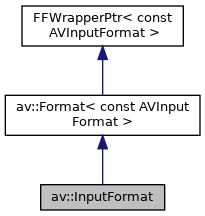
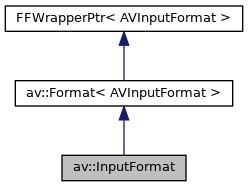
Update gh-pages to output generated at 1705836

Changed region(s): [[0.0, 0.0, 0.9951, 0.9893]]

diff --git a/classav_1_1InputFormat.html b/classav_1_1InputFormat.html
@@ -81,9 +81,9 @@ Inheritance diagram for av::InputFormat:</div>
 <div class="dyncontent">
 <div class="center"><img src="classav_1_1InputFormat__inherit__graph.png" border="0" usemap="#av_1_1InputFormat_inherit__map" alt="Inheritance graph"/></div>
 <map name="av_1_1InputFormat_inherit__map" id="av_1_1InputFormat_inherit__map">
-<area shape="rect" title=" " alt="" coords="41,184,165,211"/>
-<area shape="rect" href="structav_1_1Format.html" title=" " alt="" coords="5,95,200,136"/>
-<area shape="rect" href="structFFWrapperPtr.html" title=" " alt="" coords="22,5,183,47"/>
+<area shape="rect" title=" " alt="" coords="62,155,186,181"/>
+<area shape="rect" href="structav_1_1Format.html" title=" " alt="" coords="15,80,233,107"/>
+<area shape="rect" href="structFFWrapperPtr.html" title=" " alt="" coords="5,5,243,32"/>
 </map>
 <center><span class="legend">[<a href="graph_legend.html">legend</a>]</span></center></div>
 <div class="dynheader">
@@ -91,9 +91,9 @@ Collaboration diagram for av::InputFormat:</div>
 <div class="dyncontent">
 <div class="center"><img src="classav_1_1InputFormat__coll__graph.png" border="0" usemap="#av_1_1InputFormat_coll__map" alt="Collaboration graph"/></div>
 <map name="av_1_1InputFormat_coll__map" id="av_1_1InputFormat_coll__map">
-<area shape="rect" title=" " alt="" coords="41,184,165,211"/>
-<area shape="rect" href="structav_1_1Format.html" title=" " alt="" coords="5,95,200,136"/>
-<area shape="rect" href="structFFWrapperPtr.html" title=" " alt="" coords="22,5,183,47"/>
+<area shape="rect" title=" " alt="" coords="62,155,186,181"/>
+<area shape="rect" href="structav_1_1Format.html" title=" " alt="" coords="15,80,233,107"/>
+<area shape="rect" href="structFFWrapperPtr.html" title=" " alt="" coords="5,5,243,32"/>
 </map>
 <center><span class="legend">[<a href="graph_legend.html">legend</a>]</span></center></div>
 <table class="memberdecls">
@@ -105,7 +105,7 @@ Public Member Functions</h2></td></tr>
 <tr class="separator:a51cf89685ac9330d3e641eb1d4f5cd76"><td class="memSeparator" colspan="2">&#160;</td></tr>
 <tr class="memitem:ad57f6fc9b2ad2ca9c507ff009d2ff3d1"><td class="memItemLeft" align="right" valign="top">bool&#160;</td><td class="memItemRight" valign="bottom"><a class="el" href="classav_1_1InputFormat.html#ad57f6fc9b2ad2ca9c507ff009d2ff3d1">setFormat</a> (const std::string &amp;<a class="el" href="structav_1_1Format.html#a553d2d6b2d7dc22dee46a6fb826aac7c">name</a>) noexcept</td></tr>
 <tr class="separator:ad57f6fc9b2ad2ca9c507ff009d2ff3d1"><td class="memSeparator" colspan="2">&#160;</td></tr>
-<tr class="inherit_header pub_methods_structav_1_1Format"><td colspan="2" onclick="javascript:toggleInherit('pub_methods_structav_1_1Format')"><img src="closed.png" alt="-"/>&#160;Public Member Functions inherited from <a class="el" href="structav_1_1Format.html">av::Format&lt; const AVInputFormat &gt;</a></td></tr>
+<tr class="inherit_header pub_methods_structav_1_1Format"><td colspan="2" onclick="javascript:toggleInherit('pub_methods_structav_1_1Format')"><img src="closed.png" alt="-"/>&#160;Public Member Functions inherited from <a class="el" href="structav_1_1Format.html">av::Format&lt; AVInputFormat &gt;</a></td></tr>
 <tr class="memitem:a553d2d6b2d7dc22dee46a6fb826aac7c inherit pub_methods_structav_1_1Format"><td class="memItemLeft" align="right" valign="top">const char *&#160;</td><td class="memItemRight" valign="bottom"><a class="el" href="structav_1_1Format.html#a553d2d6b2d7dc22dee46a6fb826aac7c">name</a> () const noexcept</td></tr>
 <tr class="separator:a553d2d6b2d7dc22dee46a6fb826aac7c inherit pub_methods_structav_1_1Format"><td class="memSeparator" colspan="2">&#160;</td></tr>
 <tr class="memitem:a3e13d856e9b39f0b6b9bde2a3a47545b inherit pub_methods_structav_1_1Format"><td class="memItemLeft" align="right" valign="top">const char *&#160;</td><td class="memItemRight" valign="bottom"><a class="el" href="structav_1_1Format.html#a3e13d856e9b39f0b6b9bde2a3a47545b">longName</a> () const noexcept</td></tr>
@@ -114,20 +114,20 @@ Public Member Functions</h2></td></tr>
 <tr class="separator:ae1701d1a6ac64cbf03ec6755f49041f3 inherit pub_methods_structav_1_1Format"><td class="memSeparator" colspan="2">&#160;</td></tr>
 <tr class="memitem:a76a75832000e3f4278b0c6339dbf1eb3 inherit pub_methods_structav_1_1Format"><td class="memItemLeft" align="right" valign="top">bool&#160;</td><td class="memItemRight" valign="bottom"><a class="el" href="structav_1_1Format.html#a76a75832000e3f4278b0c6339dbf1eb3">isFlags</a> (int32_t <a class="el" href="structav_1_1Format.html#ae1701d1a6ac64cbf03ec6755f49041f3">flags</a>) const noexcept</td></tr>
 <tr class="separator:a76a75832000e3f4278b0c6339dbf1eb3 inherit pub_methods_structav_1_1Format"><td class="memSeparator" colspan="2">&#160;</td></tr>
-<tr class="memitem:a48a7626d81cc432338a0e397195f634c inherit pub_methods_structav_1_1Format"><td class="memItemLeft" align="right" valign="top">void&#160;</td><td class="memItemRight" valign="bottom"><a class="el" href="structav_1_1Format.html#a48a7626d81cc432338a0e397195f634c">setFormat</a> (const const AVInputFormat *format) noexcept</td></tr>
+<tr class="memitem:a48a7626d81cc432338a0e397195f634c inherit pub_methods_structav_1_1Format"><td class="memItemLeft" align="right" valign="top">void&#160;</td><td class="memItemRight" valign="bottom"><a class="el" href="structav_1_1Format.html#a48a7626d81cc432338a0e397195f634c">setFormat</a> (const AVInputFormat *format) noexcept</td></tr>
 <tr class="separator:a48a7626d81cc432338a0e397195f634c inherit pub_methods_structav_1_1Format"><td class="memSeparator" colspan="2">&#160;</td></tr>
 <tr class="memitem:ad7d5de416e36b566bb844c74f7b5e2dc inherit pub_methods_structav_1_1Format"><td class="memItemLeft" align="right" valign="top">bool&#160;</td><td class="memItemRight" valign="bottom"><a class="el" href="structav_1_1Format.html#ad7d5de416e36b566bb844c74f7b5e2dc">codecSupported</a> (const class <a class="el" href="classav_1_1Codec.html">Codec</a> &amp;codec) const noexcept</td></tr>
 <tr class="separator:ad7d5de416e36b566bb844c74f7b5e2dc inherit pub_methods_structav_1_1Format"><td class="memSeparator" colspan="2">&#160;</td></tr>
-<tr class="inherit_header pub_methods_structFFWrapperPtr"><td colspan="2" onclick="javascript:toggleInherit('pub_methods_structFFWrapperPtr')"><img src="closed.png" alt="-"/>&#160;Public Member Functions inherited from <a class="el" href="structFFWrapperPtr.html">FFWrapperPtr&lt; const AVInputFormat &gt;</a></td></tr>
+<tr class="inherit_header pub_methods_structFFWrapperPtr"><td colspan="2" onclick="javascript:toggleInherit('pub_methods_structFFWrapperPtr')"><img src="closed.png" alt="-"/>&#160;Public Member Functions inherited from <a class="el" href="structFFWrapperPtr.html">FFWrapperPtr&lt; AVInputFormat &gt;</a></td></tr>
 <tr class="memitem:a9c62250f8af0f75fa86ee2a62ece3471 inherit pub_methods_structFFWrapperPtr"><td class="memItemLeft" align="right" valign="top">&#160;</td><td class="memItemRight" valign="bottom"><a class="el" href="structFFWrapperPtr.html#a9c62250f8af0f75fa86ee2a62ece3471">FFWrapperPtr</a> ()=default</td></tr>
 <tr class="separator:a9c62250f8af0f75fa86ee2a62ece3471 inherit pub_methods_structFFWrapperPtr"><td class="memSeparator" colspan="2">&#160;</td></tr>
-<tr class="memitem:af4481d007c84ce93945712250896e640 inherit pub_methods_structFFWrapperPtr"><td class="memItemLeft" align="right" valign="top">&#160;</td><td class="memItemRight" valign="bottom"><a class="el" href="structFFWrapperPtr.html#af4481d007c84ce93945712250896e640">FFWrapperPtr</a> (const AVInputFormat *<a class="el" href="structFFWrapperPtr.html#a9324a428f328e33b38e7ecd3ace23c17">raw</a>)</td></tr>
+<tr class="memitem:af4481d007c84ce93945712250896e640 inherit pub_methods_structFFWrapperPtr"><td class="memItemLeft" align="right" valign="top">&#160;</td><td class="memItemRight" valign="bottom"><a class="el" href="structFFWrapperPtr.html#af4481d007c84ce93945712250896e640">FFWrapperPtr</a> (AVInputFormat *<a class="el" href="structFFWrapperPtr.html#a9324a428f328e33b38e7ecd3ace23c17">raw</a>)</td></tr>
 <tr class="separator:af4481d007c84ce93945712250896e640 inherit pub_methods_structFFWrapperPtr"><td class="memSeparator" colspan="2">&#160;</td></tr>
-<tr class="memitem:a9324a428f328e33b38e7ecd3ace23c17 inherit pub_methods_structFFWrapperPtr"><td class="memItemLeft" align="right" valign="top">const const AVInputFormat *&#160;</td><td class="memItemRight" valign="bottom"><a class="el" href="structFFWrapperPtr.html#a9324a428f328e33b38e7ecd3ace23c17">raw</a> () const</td></tr>
+<tr class="memitem:a9324a428f328e33b38e7ecd3ace23c17 inherit pub_methods_structFFWrapperPtr"><td class="memItemLeft" align="right" valign="top">const AVInputFormat *&#160;</td><td class="memItemRight" valign="bottom"><a class="el" href="structFFWrapperPtr.html#a9324a428f328e33b38e7ecd3ace23c17">raw</a> () const</td></tr>
 <tr class="separator:a9324a428f328e33b38e7ecd3ace23c17 inherit pub_methods_structFFWrapperPtr"><td class="memSeparator" colspan="2">&#160;</td></tr>
-<tr class="memitem:a872f3732cae6ab54abf6f6ca1af03822 inherit pub_methods_structFFWrapperPtr"><td class="memItemLeft" align="right" valign="top">const AVInputFormat *&#160;</td><td class="memItemRight" valign="bottom"><a class="el" href="structFFWrapperPtr.html#a872f3732cae6ab54abf6f6ca1af03822">raw</a> ()</td></tr>
+<tr class="memitem:a872f3732cae6ab54abf6f6ca1af03822 inherit pub_methods_structFFWrapperPtr"><td class="memItemLeft" align="right" valign="top">AVInputFormat *&#160;</td><td class="memItemRight" valign="bottom"><a class="el" href="structFFWrapperPtr.html#a872f3732cae6ab54abf6f6ca1af03822">raw</a> ()</td></tr>
 <tr class="separator:a872f3732cae6ab54abf6f6ca1af03822 inherit pub_methods_structFFWrapperPtr"><td class="memSeparator" colspan="2">&#160;</td></tr>
-<tr class="memitem:a1bb1bf8f201adeb010b0dce1aeefc07f inherit pub_methods_structFFWrapperPtr"><td class="memItemLeft" align="right" valign="top">void&#160;</td><td class="memItemRight" valign="bottom"><a class="el" href="structFFWrapperPtr.html#a1bb1bf8f201adeb010b0dce1aeefc07f">reset</a> (const AVInputFormat *<a class="el" href="structFFWrapperPtr.html#a9324a428f328e33b38e7ecd3ace23c17">raw</a>=nullptr)</td></tr>
+<tr class="memitem:a1bb1bf8f201adeb010b0dce1aeefc07f inherit pub_methods_structFFWrapperPtr"><td class="memItemLeft" align="right" valign="top">void&#160;</td><td class="memItemRight" valign="bottom"><a class="el" href="structFFWrapperPtr.html#a1bb1bf8f201adeb010b0dce1aeefc07f">reset</a> (AVInputFormat *<a class="el" href="structFFWrapperPtr.html#a9324a428f328e33b38e7ecd3ace23c17">raw</a>=nullptr)</td></tr>
 <tr class="separator:a1bb1bf8f201adeb010b0dce1aeefc07f inherit pub_methods_structFFWrapperPtr"><td class="memSeparator" colspan="2">&#160;</td></tr>
 <tr class="memitem:ae54094f0416110300e139b875945b982 inherit pub_methods_structFFWrapperPtr"><td class="memItemLeft" align="right" valign="top">bool&#160;</td><td class="memItemRight" valign="bottom"><a class="el" href="structFFWrapperPtr.html#ae54094f0416110300e139b875945b982">isNull</a> () const</td></tr>
 <tr class="separator:ae54094f0416110300e139b875945b982 inherit pub_methods_structFFWrapperPtr"><td class="memSeparator" colspan="2">&#160;</td></tr>
@@ -138,8 +138,8 @@ Public Member Functions</h2></td></tr>
 </table><table class="memberdecls">
 <tr class="heading"><td colspan="2"><h2 class="groupheader"><a name="inherited"></a>
 Additional Inherited Members</h2></td></tr>
-<tr class="inherit_header pro_attribs_structFFWrapperPtr"><td colspan="2" onclick="javascript:toggleInherit('pro_attribs_structFFWrapperPtr')"><img src="closed.png" alt="-"/>&#160;Protected Attributes inherited from <a class="el" href="structFFWrapperPtr.html">FFWrapperPtr&lt; const AVInputFormat &gt;</a></td></tr>
-<tr class="memitem:a5965838ceb4eeae6d752187b914a2899 inherit pro_attribs_structFFWrapperPtr"><td class="memItemLeft" align="right" valign="top">const AVInputFormat *&#160;</td><td class="memItemRight" valign="bottom"><a class="el" href="structFFWrapperPtr.html#a5965838ceb4eeae6d752187b914a2899">m_raw</a></td></tr>
+<tr class="inherit_header pro_attribs_structFFWrapperPtr"><td colspan="2" onclick="javascript:toggleInherit('pro_attribs_structFFWrapperPtr')"><img src="closed.png" alt="-"/>&#160;Protected Attributes inherited from <a class="el" href="structFFWrapperPtr.html">FFWrapperPtr&lt; AVInputFormat &gt;</a></td></tr>
+<tr class="memitem:a5965838ceb4eeae6d752187b914a2899 inherit pro_attribs_structFFWrapperPtr"><td class="memItemLeft" align="right" valign="top">AVInputFormat *&#160;</td><td class="memItemRight" valign="bottom"><a class="el" href="structFFWrapperPtr.html#a5965838ceb4eeae6d752187b914a2899">m_raw</a></td></tr>
 <tr class="separator:a5965838ceb4eeae6d752187b914a2899 inherit pro_attribs_structFFWrapperPtr"><td class="memSeparator" colspan="2">&#160;</td></tr>
 </table>
 <h2 class="groupheader">Constructor &amp; Destructor Documentation</h2>

diff --git a/classav_1_1InputFormat-members.html b/classav_1_1InputFormat-members.html
@@ -74,24 +74,24 @@ $(function() {
 
 <p>This is the complete list of members for <a class="el" href="classav_1_1InputFormat.html">av::InputFormat</a>, including all inherited members.</p>
 <table class="directory">
-  <tr class="even"><td class="entry"><a class="el" href="structFFWrapperPtr.html#a527efb6b9c843b88dda31ef3b7b908f4">_log</a>(int level, const char *fmt) const</td><td class="entry"><a class="el" href="structFFWrapperPtr.html">FFWrapperPtr&lt; const AVInputFormat &gt;</a></td><td class="entry"><span class="mlabel">inline</span></td></tr>
-  <tr><td class="entry"><a class="el" href="structFFWrapperPtr.html#a510827f8ea5f35887075ee04f3f45519">_log</a>(int level, const char *fmt, const Args &amp;... args) const</td><td class="entry"><a class="el" href="structFFWrapperPtr.html">FFWrapperPtr&lt; const AVInputFormat &gt;</a></td><td class="entry"><span class="mlabel">inline</span></td></tr>
-  <tr class="even"><td class="entry"><a class="el" href="structav_1_1Format.html#ad7d5de416e36b566bb844c74f7b5e2dc">codecSupported</a>(const class Codec &amp;codec) const noexcept</td><td class="entry"><a class="el" href="structav_1_1Format.html">av::Format&lt; const AVInputFormat &gt;</a></td><td class="entry"><span class="mlabel">inline</span></td></tr>
-  <tr><td class="entry"><a class="el" href="structFFWrapperPtr.html#a9c62250f8af0f75fa86ee2a62ece3471">FFWrapperPtr</a>()=default</td><td class="entry"><a class="el" href="structFFWrapperPtr.html">FFWrapperPtr&lt; const AVInputFormat &gt;</a></td><td class="entry"></td></tr>
-  <tr class="even"><td class="entry"><a class="el" href="structFFWrapperPtr.html#af4481d007c84ce93945712250896e640">FFWrapperPtr</a>(const AVInputFormat *raw)</td><td class="entry"><a class="el" href="structFFWrapperPtr.html">FFWrapperPtr&lt; const AVInputFormat &gt;</a></td><td class="entry"><span class="mlabel">inline</span><span class="mlabel">explicit</span></td></tr>
-  <tr><td class="entry"><a class="el" href="structav_1_1Format.html#ae1701d1a6ac64cbf03ec6755f49041f3">flags</a>() const noexcept</td><td class="entry"><a class="el" href="structav_1_1Format.html">av::Format&lt; const AVInputFormat &gt;</a></td><td class="entry"><span class="mlabel">inline</span></td></tr>
+  <tr class="even"><td class="entry"><a class="el" href="structFFWrapperPtr.html#a527efb6b9c843b88dda31ef3b7b908f4">_log</a>(int level, const char *fmt) const</td><td class="entry"><a class="el" href="structFFWrapperPtr.html">FFWrapperPtr&lt; AVInputFormat &gt;</a></td><td class="entry"><span class="mlabel">inline</span></td></tr>
+  <tr><td class="entry"><a class="el" href="structFFWrapperPtr.html#a510827f8ea5f35887075ee04f3f45519">_log</a>(int level, const char *fmt, const Args &amp;... args) const</td><td class="entry"><a class="el" href="structFFWrapperPtr.html">FFWrapperPtr&lt; AVInputFormat &gt;</a></td><td class="entry"><span class="mlabel">inline</span></td></tr>
+  <tr class="even"><td class="entry"><a class="el" href="structav_1_1Format.html#ad7d5de416e36b566bb844c74f7b5e2dc">codecSupported</a>(const class Codec &amp;codec) const noexcept</td><td class="entry"><a class="el" href="structav_1_1Format.html">av::Format&lt; AVInputFormat &gt;</a></td><td class="entry"><span class="mlabel">inline</span></td></tr>
+  <tr><td class="entry"><a class="el" href="structFFWrapperPtr.html#a9c62250f8af0f75fa86ee2a62ece3471">FFWrapperPtr</a>()=default</td><td class="entry"><a class="el" href="structFFWrapperPtr.html">FFWrapperPtr&lt; AVInputFormat &gt;</a></td><td class="entry"></td></tr>
+  <tr class="even"><td class="entry"><a class="el" href="structFFWrapperPtr.html#af4481d007c84ce93945712250896e640">FFWrapperPtr</a>(AVInputFormat *raw)</td><td class="entry"><a class="el" href="structFFWrapperPtr.html">FFWrapperPtr&lt; AVInputFormat &gt;</a></td><td class="entry"><span class="mlabel">inline</span><span class="mlabel">explicit</span></td></tr>
+  <tr><td class="entry"><a class="el" href="structav_1_1Format.html#ae1701d1a6ac64cbf03ec6755f49041f3">flags</a>() const noexcept</td><td class="entry"><a class="el" href="structav_1_1Format.html">av::Format&lt; AVInputFormat &gt;</a></td><td class="entry"><span class="mlabel">inline</span></td></tr>
   <tr class="even"><td class="entry"><a class="el" href="classav_1_1InputFormat.html#a5bdd0e1d62a9e8bab0c711bb26a0347c">InputFormat</a>()=default</td><td class="entry"><a class="el" href="classav_1_1InputFormat.html">av::InputFormat</a></td><td class="entry"></td></tr>
   <tr><td class="entry"><a class="el" href="classav_1_1InputFormat.html#a51cf89685ac9330d3e641eb1d4f5cd76">InputFormat</a>(const std::string &amp;name) noexcept</td><td class="entry"><a class="el" href="classav_1_1InputFormat.html">av::InputFormat</a></td><td class="entry"></td></tr>
-  <tr class="even"><td class="entry"><a class="el" href="structav_1_1Format.html#a76a75832000e3f4278b0c6339dbf1eb3">isFlags</a>(int32_t flags) const noexcept</td><td class="entry"><a class="el" href="structav_1_1Format.html">av::Format&lt; const AVInputFormat &gt;</a></td><td class="entry"><span class="mlabel">inline</span></td></tr>
-  <tr><td class="entry"><a class="el" href="structFFWrapperPtr.html#ae54094f0416110300e139b875945b982">isNull</a>() const</td><td class="entry"><a class="el" href="structFFWrapperPtr.html">FFWrapperPtr&lt; const AVInputFormat &gt;</a></td><td class="entry"><span class="mlabel">inline</span></td></tr>
-  <tr class="even"><td class="entry"><a class="el" href="structav_1_1Format.html#a3e13d856e9b39f0b6b9bde2a3a47545b">longName</a>() const noexcept</td><td class="entry"><a class="el" href="structav_1_1Format.html">av::Format&lt; const AVInputFormat &gt;</a></td><td class="entry"><span class="mlabel">inline</span></td></tr>
-  <tr><td class="entry"><a class="el" href="structFFWrapperPtr.html#a5965838ceb4eeae6d752187b914a2899">m_raw</a></td><td class="entry"><a class="el" href="structFFWrapperPtr.html">FFWrapperPtr&lt; const AVInputFormat &gt;</a></td><td class="entry"><span class="mlabel">protected</span></td></tr>
-  <tr class="even"><td class="entry"><a class="el" href="structav_1_1Format.html#a553d2d6b2d7dc22dee46a6fb826aac7c">name</a>() const noexcept</td><td class="entry"><a class="el" href="structav_1_1Format.html">av::Format&lt; const AVInputFormat &gt;</a></td><td class="entry"><span class="mlabel">inline</span></td></tr>
-  <tr><td class="entry"><a class="el" href="structFFWrapperPtr.html#a9324a428f328e33b38e7ecd3ace23c17">raw</a>() const</td><td class="entry"><a class="el" href="structFFWrapperPtr.html">FFWrapperPtr&lt; const AVInputFormat &gt;</a></td><td class="entry"><span class="mlabel">inline</span></td></tr>
-  <tr class="even"><td class="entry"><a class="el" href="structFFWrapperPtr.html#a872f3732cae6ab54abf6f6ca1af03822">raw</a>()</td><td class="entry"><a class="el" href="structFFWrapperPtr.html">FFWrapperPtr&lt; const AVInputFormat &gt;</a></td><td class="entry"><span class="mlabel">inline</span></td></tr>
-  <tr><td class="entry"><a class="el" href="structFFWrapperPtr.html#a1bb1bf8f201adeb010b0dce1aeefc07f">reset</a>(const AVInputFormat *raw=nullptr)</td><td class="entry"><a class="el" href="structFFWrapperPtr.html">FFWrapperPtr&lt; const AVInputFormat &gt;</a></td><td class="entry"><span class="mlabel">inline</span></td></tr>
+  <tr class="even"><td class="entry"><a class="el" href="structav_1_1Format.html#a76a75832000e3f4278b0c6339dbf1eb3">isFlags</a>(int32_t flags) const noexcept</td><td class="entry"><a class="el" href="structav_1_1Format.html">av::Format&lt; AVInputFormat &gt;</a></td><td class="entry"><span class="mlabel">inline</span></td></tr>
+  <tr><td class="entry"><a class="el" href="structFFWrapperPtr.html#ae54094f0416110300e139b875945b982">isNull</a>() const</td><td class="entry"><a class="el" href="structFFWrapperPtr.html">FFWrapperPtr&lt; AVInputFormat &gt;</a></td><td class="entry"><span class="mlabel">inline</span></td></tr>
+  <tr class="even"><td class="entry"><a class="el" href="structav_1_1Format.html#a3e13d856e9b39f0b6b9bde2a3a47545b">longName</a>() const noexcept</td><td class="entry"><a class="el" href="structav_1_1Format.html">av::Format&lt; AVInputFormat &gt;</a></td><td class="entry"><span class="mlabel">inline</span></td></tr>
+  <tr><td class="entry"><a class="el" href="structFFWrapperPtr.html#a5965838ceb4eeae6d752187b914a2899">m_raw</a></td><td class="entry"><a class="el" href="structFFWrapperPtr.html">FFWrapperPtr&lt; AVInputFormat &gt;</a></td><td class="entry"><span class="mlabel">protected</span></td></tr>
+  <tr class="even"><td class="entry"><a class="el" href="structav_1_1Format.html#a553d2d6b2d7dc22dee46a6fb826aac7c">name</a>() const noexcept</td><td class="entry"><a class="el" href="structav_1_1Format.html">av::Format&lt; AVInputFormat &gt;</a></td><td class="entry"><span class="mlabel">inline</span></td></tr>
+  <tr><td class="entry"><a class="el" href="structFFWrapperPtr.html#a9324a428f328e33b38e7ecd3ace23c17">raw</a>() const</td><td class="entry"><a class="el" href="structFFWrapperPtr.html">FFWrapperPtr&lt; AVInputFormat &gt;</a></td><td class="entry"><span class="mlabel">inline</span></td></tr>
+  <tr class="even"><td class="entry"><a class="el" href="structFFWrapperPtr.html#a872f3732cae6ab54abf6f6ca1af03822">raw</a>()</td><td class="entry"><a class="el" href="structFFWrapperPtr.html">FFWrapperPtr&lt; AVInputFormat &gt;</a></td><td class="entry"><span class="mlabel">inline</span></td></tr>
+  <tr><td class="entry"><a class="el" href="structFFWrapperPtr.html#a1bb1bf8f201adeb010b0dce1aeefc07f">reset</a>(AVInputFormat *raw=nullptr)</td><td class="entry"><a class="el" href="structFFWrapperPtr.html">FFWrapperPtr&lt; AVInputFormat &gt;</a></td><td class="entry"><span class="mlabel">inline</span></td></tr>
   <tr class="even"><td class="entry"><a class="el" href="classav_1_1InputFormat.html#ad57f6fc9b2ad2ca9c507ff009d2ff3d1">setFormat</a>(const std::string &amp;name) noexcept</td><td class="entry"><a class="el" href="classav_1_1InputFormat.html">av::InputFormat</a></td><td class="entry"></td></tr>
-  <tr><td class="entry"><a class="el" href="structav_1_1Format.html#a48a7626d81cc432338a0e397195f634c">Format&lt; const AVInputFormat &gt;::setFormat</a>(const const AVInputFormat *format) noexcept</td><td class="entry"><a class="el" href="structav_1_1Format.html">av::Format&lt; const AVInputFormat &gt;</a></td><td class="entry"><span class="mlabel">inline</span></td></tr>
+  <tr><td class="entry"><a class="el" href="structav_1_1Format.html#a48a7626d81cc432338a0e397195f634c">Format&lt; AVInputFormat &gt;::setFormat</a>(const AVInputFormat *format) noexcept</td><td class="entry"><a class="el" href="structav_1_1Format.html">av::Format&lt; AVInputFormat &gt;</a></td><td class="entry"><span class="mlabel">inline</span></td></tr>
 </table></div><!-- contents -->
 <!-- start footer part -->
 <hr class="footer"/><address class="footer"><small>

diff --git a/hierarchy.html b/hierarchy.html
@@ -123,17 +123,17 @@ This inheritance list is sorted roughly, but not completely, alphabetically:</di
 <tr id="row_20_1_0_"><td class="entry"><span style="width:48px;display:inline-block;">&#160;</span><span class="icona"><span class="icon">C</span></span><a class="el" href="classav_1_1AudioSamples.html" target="_self">av::AudioSamples</a></td><td class="desc"></td></tr>
 <tr id="row_20_2_" class="even"><td class="entry"><span style="width:16px;display:inline-block;">&#160;</span><span id="arr_20_2_" class="arrow" onclick="toggleFolder('20_2_')">&#9660;</span><span class="icona"><span class="icon">C</span></span><a class="el" href="classav_1_1Frame.html" target="_self">av::Frame&lt; VideoFrame &gt;</a></td><td class="desc"></td></tr>
 <tr id="row_20_2_0_"><td class="entry"><span style="width:48px;display:inline-block;">&#160;</span><span class="icona"><span class="icon">C</span></span><a class="el" href="classav_1_1VideoFrame.html" target="_self">av::VideoFrame</a></td><td class="desc"></td></tr>
-<tr id="row_21_" class="even"><td class="entry"><span style="width:0px;display:inline-block;">&#160;</span><span id="arr_21_" class="arrow" onclick="toggleFolder('21_')">&#9660;</span><span class="icona"><span class="icon">C</span></span><a class="el" href="structFFWrapperPtr.html" target="_self">FFWrapperPtr&lt; AVStream &gt;</a></td><td class="desc"></td></tr>
-<tr id="row_21_0_"><td class="entry"><span style="width:32px;display:inline-block;">&#160;</span><span class="icona"><span class="icon">C</span></span><a class="el" href="classav_1_1Stream.html" target="_self">av::Stream</a></td><td class="desc"></td></tr>
-<tr id="row_22_" class="even"><td class="entry"><span style="width:0px;display:inline-block;">&#160;</span><span id="arr_22_" class="arrow" onclick="toggleFolder('22_')">&#9660;</span><span class="icona"><span class="icon">C</span></span><a class="el" href="structFFWrapperPtr.html" target="_self">FFWrapperPtr&lt; const AVCodec &gt;</a></td><td class="desc"></td></tr>
-<tr id="row_22_0_"><td class="entry"><span style="width:32px;display:inline-block;">&#160;</span><span class="icona"><span class="icon">C</span></span><a class="el" href="classav_1_1Codec.html" target="_self">av::Codec</a></td><td class="desc"></td></tr>
-<tr id="row_23_" class="even"><td class="entry"><span style="width:0px;display:inline-block;">&#160;</span><span id="arr_23_" class="arrow" onclick="toggleFolder('23_')">&#9660;</span><span class="icona"><span class="icon">C</span></span><a class="el" href="structFFWrapperPtr.html" target="_self">FFWrapperPtr&lt; const AVFilter &gt;</a></td><td class="desc"></td></tr>
-<tr id="row_23_0_"><td class="entry"><span style="width:32px;display:inline-block;">&#160;</span><span class="icona"><span class="icon">C</span></span><a class="el" href="classav_1_1Filter.html" target="_self">av::Filter</a></td><td class="desc"></td></tr>
-<tr id="row_24_" class="even"><td class="entry"><span style="width:0px;display:inline-block;">&#160;</span><span id="arr_24_" class="arrow" onclick="toggleFolder('24_')">&#9660;</span><span class="icona"><span class="icon">C</span></span><a class="el" href="structFFWrapperPtr.html" target="_self">FFWrapperPtr&lt; const AVFilterPad &gt;</a></td><td class="desc"></td></tr>
-<tr id="row_24_0_"><td class="entry"><span style="width:32px;display:inline-block;">&#160;</span><span class="icona"><span class="icon">C</span></span><a class="el" href="classav_1_1FilterPadList.html" target="_self">av::FilterPadList</a></td><td class="desc"></td></tr>
-<tr id="row_25_" class="even"><td class="entry"><span style="width:0px;display:inline-block;">&#160;</span><span id="arr_25_" class="arrow" onclick="toggleFolder('25_')">&#9660;</span><span class="icona"><span class="icon">C</span></span><a class="el" href="structFFWrapperPtr.html" target="_self">FFWrapperPtr&lt; const AVInputFormat &gt;</a></td><td class="desc"></td></tr>
-<tr id="row_25_0_"><td class="entry"><span style="width:16px;display:inline-block;">&#160;</span><span id="arr_25_0_" class="arrow" onclick="toggleFolder('25_0_')">&#9660;</span><span class="icona"><span class="icon">C</span></span><a class="el" href="structav_1_1Format.html" target="_self">av::Format&lt; const AVInputFormat &gt;</a></td><td class="desc"></td></tr>
-<tr id="row_25_0_0_" class="even"><td class="entry"><span style="width:48px;display:inline-block;">&#160;</span><span class="icona"><span class="icon">C</span></span><a class="el" href="classav_1_1InputFormat.html" target="_self">av::InputFormat</a></td><td class="desc"></td></tr>
+<tr id="row_21_" class="even"><td class="entry"><span style="width:0px;display:inline-block;">&#160;</span><span id="arr_21_" class="arrow" onclick="toggleFolder('21_')">&#9660;</span><span class="icona"><span class="icon">C</span></span><a class="el" href="structFFWrapperPtr.html" target="_self">FFWrapperPtr&lt; AVInputFormat &gt;</a></td><td class="desc"></td></tr>
+<tr id="row_21_0_"><td class="entry"><span style="width:16px;display:inline-block;">&#160;</span><span id="arr_21_0_" class="arrow" onclick="toggleFolder('21_0_')">&#9660;</span><span class="icona"><span class="icon">C</span></span><a class="el" href="structav_1_1Format.html" target="_self">av::Format&lt; AVInputFormat &gt;</a></td><td class="desc"></td></tr>
+<tr id="row_21_0_0_" class="even"><td class="entry"><span style="width:48px;display:inline-block;">&#160;</span><span class="icona"><span class="icon">C</span></span><a class="el" href="classav_1_1InputFormat.html" target="_self">av::InputFormat</a></td><td class="desc"></td></tr>
+<tr id="row_22_"><td class="entry"><span style="width:0px;display:inline-block;">&#160;</span><span id="arr_22_" class="arrow" onclick="toggleFolder('22_')">&#9660;</span><span class="icona"><span class="icon">C</span></span><a class="el" href="structFFWrapperPtr.html" target="_self">FFWrapperPtr&lt; AVStream &gt;</a></td><td class="desc"></td></tr>
+<tr id="row_22_0_" class="even"><td class="entry"><span style="width:32px;display:inline-block;">&#160;</span><span class="icona"><span class="icon">C</span></span><a class="el" href="classav_1_1Stream.html" target="_self">av::Stream</a></td><td class="desc"></td></tr>
+<tr id="row_23_"><td class="entry"><span style="width:0px;display:inline-block;">&#160;</span><span id="arr_23_" class="arrow" onclick="toggleFolder('23_')">&#9660;</span><span class="icona"><span class="icon">C</span></span><a class="el" href="structFFWrapperPtr.html" target="_self">FFWrapperPtr&lt; const AVCodec &gt;</a></td><td class="desc"></td></tr>
+<tr id="row_23_0_" class="even"><td class="entry"><span style="width:32px;display:inline-block;">&#160;</span><span class="icona"><span class="icon">C</span></span><a class="el" href="classav_1_1Codec.html" target="_self">av::Codec</a></td><td class="desc"></td></tr>
+<tr id="row_24_"><td class="entry"><span style="width:0px;display:inline-block;">&#160;</span><span id="arr_24_" class="arrow" onclick="toggleFolder('24_')">&#9660;</span><span class="icona"><span class="icon">C</span></span><a class="el" href="structFFWrapperPtr.html" target="_self">FFWrapperPtr&lt; const AVFilter &gt;</a></td><td class="desc"></td></tr>
+<tr id="row_24_0_" class="even"><td class="entry"><span style="width:32px;display:inline-block;">&#160;</span><span class="icona"><span class="icon">C</span></span><a class="el" href="classav_1_1Filter.html" target="_self">av::Filter</a></td><td class="desc"></td></tr>
+<tr id="row_25_"><td class="entry"><span style="width:0px;display:inline-block;">&#160;</span><span id="arr_25_" class="arrow" onclick="toggleFolder('25_')">&#9660;</span><span class="icona"><span class="icon">C</span></span><a class="el" href="structFFWrapperPtr.html" target="_self">FFWrapperPtr&lt; const AVFilterPad &gt;</a></td><td class="desc"></td></tr>
+<tr id="row_25_0_" class="even"><td class="entry"><span style="width:32px;display:inline-block;">&#160;</span><span class="icona"><span class="icon">C</span></span><a class="el" href="classav_1_1FilterPadList.html" target="_self">av::FilterPadList</a></td><td class="desc"></td></tr>
 <tr id="row_26_"><td class="entry"><span style="width:0px;display:inline-block;">&#160;</span><span id="arr_26_" class="arrow" onclick="toggleFolder('26_')">&#9660;</span><span class="icona"><span class="icon">C</span></span><a class="el" href="structFFWrapperPtr.html" target="_self">FFWrapperPtr&lt; const AVOutputFormat &gt;</a></td><td class="desc"></td></tr>
 <tr id="row_26_0_" class="even"><td class="entry"><span style="width:16px;display:inline-block;">&#160;</span><span id="arr_26_0_" class="arrow" onclick="toggleFolder('26_0_')">&#9660;</span><span class="icona"><span class="icon">C</span></span><a class="el" href="structav_1_1Format.html" target="_self">av::Format&lt; const AVOutputFormat &gt;</a></td><td class="desc"></td></tr>
 <tr id="row_26_0_0_"><td class="entry"><span style="width:48px;display:inline-block;">&#160;</span><span class="icona"><span class="icon">C</span></span><a class="el" href="classav_1_1OutputFormat.html" target="_self">av::OutputFormat</a></td><td class="desc"></td></tr>

diff --git a/inherits.html b/inherits.html
@@ -289,35 +289,35 @@ $(function() {
 <area shape="rect" href="classav_1_1VideoFrame.html" title=" " alt="" coords="517,107,640,133"/>
 </map>
 </td></tr>
-<tr><td><img src="inherit_graph_36.png" border="0" usemap="#FFWrapperPtr_3_01AVStream_01_4" alt=""/>
+<tr><td><img src="inherit_graph_36.png" border="0" usemap="#FFWrapperPtr_3_01AVInputFormat_01_4" alt=""/>
+<map name="FFWrapperPtr_3_01AVInputFormat_01_4" id="FFWrapperPtr_3_01AVInputFormat_01_4">
+<area shape="rect" href="structFFWrapperPtr.html" title=" " alt="" coords="5,5,243,32"/>
+<area shape="rect" href="structav_1_1Format.html" title=" " alt="" coords="291,5,508,32"/>
+<area shape="rect" href="classav_1_1InputFormat.html" title=" " alt="" coords="556,5,680,32"/>
+</map>
+</td></tr>
+<tr><td><img src="inherit_graph_37.png" border="0" usemap="#FFWrapperPtr_3_01AVStream_01_4" alt=""/>
 <map name="FFWrapperPtr_3_01AVStream_01_4" id="FFWrapperPtr_3_01AVStream_01_4">
 <area shape="rect" href="structFFWrapperPtr.html" title=" " alt="" coords="5,5,211,32"/>
 <area shape="rect" href="classav_1_1Stream.html" title=" " alt="" coords="259,5,351,32"/>
 </map>
 </td></tr>
-<tr><td><img src="inherit_graph_37.png" border="0" usemap="#FFWrapperPtr_3_01const_01AVCodec_01_4" alt=""/>
+<tr><td><img src="inherit_graph_38.png" border="0" usemap="#FFWrapperPtr_3_01const_01AVCodec_01_4" alt=""/>
 <map name="FFWrapperPtr_3_01const_01AVCodec_01_4" id="FFWrapperPtr_3_01const_01AVCodec_01_4">
 <area shape="rect" href="structFFWrapperPtr.html" title=" " alt="" coords="5,5,167,47"/>
 <area shape="rect" href="classav_1_1Codec.html" title=" " alt="" coords="215,13,300,39"/>
 </map>
 </td></tr>
-<tr><td><img src="inherit_graph_38.png" border="0" usemap="#FFWrapperPtr_3_01const_01AVFilter_01_4" alt=""/>
+<tr><td><img src="inherit_graph_39.png" border="0" usemap="#FFWrapperPtr_3_01const_01AVFilter_01_4" alt=""/>
 <map name="FFWrapperPtr_3_01const_01AVFilter_01_4" id="FFWrapperPtr_3_01const_01AVFilter_01_4">
 <area shape="rect" href="structFFWrapperPtr.html" title=" " alt="" coords="5,5,167,47"/>
 <area shape="rect" href="classav_1_1Filter.html" title=" " alt="" coords="215,13,293,39"/>
 </map>
 </td></tr>
-<tr><td><img src="inherit_graph_39.png" border="0" usemap="#FFWrapperPtr_3_01const_01AVFilterPad_01_4" alt=""/>
+<tr><td><img src="inherit_graph_40.png" border="0" usemap="#FFWrapperPtr_3_01const_01AVFilterPad_01_4" alt=""/>
 <map name="FFWrapperPtr_3_01const_01AVFilterPad_01_4" id="FFWrapperPtr_3_01const_01AVFilterPad_01_4">
 <area shape="rect" href="structFFWrapperPtr.html" title=" " alt="" coords="5,5,167,47"/>
 <area shape="rect" href="classav_1_1FilterPadList.html" title=" " alt="" coords="215,13,339,39"/>
-</map>
-</td></tr>
-<tr><td><img src="inherit_graph_40.png" border="0" usemap="#FFWrapperPtr_3_01const_01AVInputFormat_01_4" alt=""/>
-<map name="FFWrapperPtr_3_01const_01AVInputFormat_01_4" id="FFWrapperPtr_3_01const_01AVInputFormat_01_4">
-<area shape="rect" href="structFFWrapperPtr.html" title=" " alt="" coords="5,5,167,47"/>
-<area shape="rect" href="structav_1_1Format.html" title=" " alt="" coords="215,5,409,47"/>
-<area shape="rect" href="classav_1_1InputFormat.html" title=" " alt="" coords="457,13,581,39"/>
 </map>
 </td></tr>
 <tr><td><img src="inherit_graph_41.png" border="0" usemap="#FFWrapperPtr_3_01const_01AVOutputFormat_01_4" alt=""/>

diff --git a/search/all_6.js b/search/all_6.js
@@ -14,11 +14,11 @@ var searchData=
   ['ffwrapperptr_3c_20avfiltergraph_20_3e_197',['FFWrapperPtr&lt; AVFilterGraph &gt;',['../structFFWrapperPtr.html',1,'']]],
   ['ffwrapperptr_3c_20avformatcontext_20_3e_198',['FFWrapperPtr&lt; AVFormatContext &gt;',['../structFFWrapperPtr.html',1,'']]],
   ['ffwrapperptr_3c_20avframe_20_3e_199',['FFWrapperPtr&lt; AVFrame &gt;',['../structFFWrapperPtr.html',1,'']]],
-  ['ffwrapperptr_3c_20avstream_20_3e_200',['FFWrapperPtr&lt; AVStream &gt;',['../structFFWrapperPtr.html',1,'']]],
-  ['ffwrapperptr_3c_20const_20avcodec_20_3e_201',['FFWrapperPtr&lt; const AVCodec &gt;',['../structFFWrapperPtr.html',1,'']]],
-  ['ffwrapperptr_3c_20const_20avfilter_20_3e_202',['FFWrapperPtr&lt; const AVFilter &gt;',['../structFFWrapperPtr.html',1,'']]],
-  ['ffwrapperptr_3c_20const_20avfilterpad_20_3e_203',['FFWrapperPtr&lt; const AVFilterPad &gt;',['../structFFWrapperPtr.html',1,'']]],
-  ['ffwrapperptr_3c_20const_20avinputformat_20_3e_204',['FFWrapperPtr&lt; const AVInputFormat &gt;',['../structFFWrapperPtr.html',1,'']]],
+  ['ffwrapperptr_3c_20avinputformat_20_3e_200',['FFWrapperPtr&lt; AVInputFormat &gt;',['../structFFWrapperPtr.html',1,'']]],
+  ['ffwrapperptr_3c_20avstream_20_3e_201',['FFWrapperPtr&lt; AVStream &gt;',['../structFFWrapperPtr.html',1,'']]],
+  ['ffwrapperptr_3c_20const_20avcodec_20_3e_202',['FFWrapperPtr&lt; const AVCodec &gt;',['../structFFWrapperPtr.html',1,'']]],
+  ['ffwrapperptr_3c_20const_20avfilter_20_3e_203',['FFWrapperPtr&lt; const AVFilter &gt;',['../structFFWrapperPtr.html',1,'']]],
+  ['ffwrapperptr_3c_20const_20avfilterpad_20_3e_204',['FFWrapperPtr&lt; const AVFilterPad &gt;',['../structFFWrapperPtr.html',1,'']]],
   ['ffwrapperptr_3c_20const_20avoutputformat_20_3e_205',['FFWrapperPtr&lt; const AVOutputFormat &gt;',['../structFFWrapperPtr.html',1,'']]],
   ['ffwrapperptr_3c_20swrcontext_20_3e_206',['FFWrapperPtr&lt; SwrContext &gt;',['../structFFWrapperPtr.html',1,'']]],
   ['ffwrapperptr_3c_20swscontext_20_3e_207',['FFWrapperPtr&lt; SwsContext &gt;',['../structFFWrapperPtr.html',1,'']]],
@@ -58,7 +58,7 @@ var searchData=
   ['format_241',['Format',['../structav_1_1Format.html',1,'av']]],
   ['format_2ecpp_242',['format.cpp',['../format_8cpp.html',1,'']]],
   ['format_2eh_243',['format.h',['../format_8h.html',1,'']]],
-  ['format_3c_20const_20avinputformat_20_3e_244',['Format&lt; const AVInputFormat &gt;',['../structav_1_1Format.html',1,'av']]],
+  ['format_3c_20avinputformat_20_3e_244',['Format&lt; AVInputFormat &gt;',['../structav_1_1Format.html',1,'av']]],
   ['format_3c_20const_20avoutputformat_20_3e_245',['Format&lt; const AVOutputFormat &gt;',['../structav_1_1Format.html',1,'av']]],
   ['formatalreadyopened_246',['FormatAlreadyOpened',['../namespaceav.html#aa0be1141896ec64853346d02dbf2d905a6f29cf8a3b7b88855563a28e56117865',1,'av']]],
   ['formatcantaddstream_247',['FormatCantAddStream',['../namespaceav.html#aa0be1141896ec64853346d02dbf2d905ab995795081e41596cf1fe3df6895427f',1,'av']]],

diff --git a/search/classes_5.js b/search/classes_5.js
@@ -8,11 +8,11 @@ var searchData=
   ['ffwrapperptr_3c_20avfiltergraph_20_3e_673',['FFWrapperPtr&lt; AVFilterGraph &gt;',['../structFFWrapperPtr.html',1,'']]],
   ['ffwrapperptr_3c_20avformatcontext_20_3e_674',['FFWrapperPtr&lt; AVFormatContext &gt;',['../structFFWrapperPtr.html',1,'']]],
   ['ffwrapperptr_3c_20avframe_20_3e_675',['FFWrapperPtr&lt; AVFrame &gt;',['../structFFWrapperPtr.html',1,'']]],
-  ['ffwrapperptr_3c_20avstream_20_3e_676',['FFWrapperPtr&lt; AVStream &gt;',['../structFFWrapperPtr.html',1,'']]],
-  ['ffwrapperptr_3c_20const_20avcodec_20_3e_677',['FFWrapperPtr&lt; const AVCodec &gt;',['../structFFWrapperPtr.html',1,'']]],
-  ['ffwrapperptr_3c_20const_20avfilter_20_3e_678',['FFWrapperPtr&lt; const AVFilter &gt;',['../structFFWrapperPtr.html',1,'']]],
-  ['ffwrapperptr_3c_20const_20avfilterpad_20_3e_679',['FFWrapperPtr&lt; const AVFilterPad &gt;',['../structFFWrapperPtr.html',1,'']]],
-  ['ffwrapperptr_3c_20const_20avinputformat_20_3e_680',['FFWrapperPtr&lt; const AVInputFormat &gt;',['../structFFWrapperPtr.html',1,'']]],
+  ['ffwrapperptr_3c_20avinputformat_20_3e_676',['FFWrapperPtr&lt; AVInputFormat &gt;',['../structFFWrapperPtr.html',1,'']]],
+  ['ffwrapperptr_3c_20avstream_20_3e_677',['FFWrapperPtr&lt; AVStream &gt;',['../structFFWrapperPtr.html',1,'']]],
+  ['ffwrapperptr_3c_20const_20avcodec_20_3e_678',['FFWrapperPtr&lt; const AVCodec &gt;',['../structFFWrapperPtr.html',1,'']]],
+  ['ffwrapperptr_3c_20const_20avfilter_20_3e_679',['FFWrapperPtr&lt; const AVFilter &gt;',['../structFFWrapperPtr.html',1,'']]],
+  ['ffwrapperptr_3c_20const_20avfilterpad_20_3e_680',['FFWrapperPtr&lt; const AVFilterPad &gt;',['../structFFWrapperPtr.html',1,'']]],
   ['ffwrapperptr_3c_20const_20avoutputformat_20_3e_681',['FFWrapperPtr&lt; const AVOutputFormat &gt;',['../structFFWrapperPtr.html',1,'']]],
   ['ffwrapperptr_3c_20swrcontext_20_3e_682',['FFWrapperPtr&lt; SwrContext &gt;',['../structFFWrapperPtr.html',1,'']]],
   ['ffwrapperptr_3c_20swscontext_20_3e_683',['FFWrapperPtr&lt; SwsContext &gt;',['../structFFWrapperPtr.html',1,'']]],
@@ -23,7 +23,7 @@ var searchData=
   ['filtergraph_688',['FilterGraph',['../classav_1_1FilterGraph.html',1,'av']]],
   ['filterpadlist_689',['FilterPadList',['../classav_1_1FilterPadList.html',1,'av']]],
   ['format_690',['Format',['../structav_1_1Format.html',1,'av']]],
-  ['format_3c_20const_20avinputformat_20_3e_691',['Format&lt; const AVInputFormat &gt;',['../structav_1_1Format.html',1,'av']]],
+  ['format_3c_20avinputformat_20_3e_691',['Format&lt; AVInputFormat &gt;',['../structav_1_1Format.html',1,'av']]],
   ['format_3c_20const_20avoutputformat_20_3e_692',['Format&lt; const AVOutputFormat &gt;',['../structav_1_1Format.html',1,'av']]],
   ['formatcontext_693',['FormatContext',['../classav_1_1FormatContext.html',1,'av']]],
   ['frame_694',['Frame',['../classav_1_1Frame.html',1,'av']]],

diff --git a/format_8h_source.html b/format_8h_source.html
@@ -125,11 +125,11 @@ $(function() {
 <div class="line"><a name="l00052"></a><span class="lineno">   52</span>&#160;    <span class="keyword">using</span> <a class="code" href="structFFWrapperPtr.html">FFWrapperPtr&lt;T&gt;::m_raw</a>;</div>
 <div class="line"><a name="l00053"></a><span class="lineno">   53</span>&#160;};</div>
 <div class="line"><a name="l00054"></a><span class="lineno">   54</span>&#160; </div>
-<div class="line"><a name="l00055"></a><span class="lineno"><a class="line" href="classav_1_1InputFormat.html">   55</a></span>&#160;<span class="keyword">class </span><a class="code" href="classav_1_1InputFormat.html">InputFormat</a> : <span class="keyword">public</span> <a class="code" href="structav_1_1Format.html">Format</a>&lt;const AVInputFormat&gt;</div>
+<div class="line"><a name="l00055"></a><span class="lineno"><a class="line" href="classav_1_1InputFormat.html">   55</a></span>&#160;<span class="keyword">class </span><a class="code" href="classav_1_1InputFormat.html">InputFormat</a> : <span class="keyword">public</span> <a class="code" href="structav_1_1Format.html">Format</a>&lt;AVInputFormat&gt;</div>
 <div class="line"><a name="l00056"></a><span class="lineno">   56</span>&#160;{</div>
 <div class="line"><a name="l00057"></a><span class="lineno">   57</span>&#160;<span class="keyword">public</span>:</div>
-<div class="line"><a name="l00058"></a><span class="lineno">   58</span>&#160;    <span class="keyword">using</span> <a class="code" href="structav_1_1Format.html">Format&lt;const AVInputFormat&gt;::Format</a>;</div>
-<div class="line"><a name="l00059"></a><span class="lineno">   59</span>&#160;    <span class="keyword">using</span> <a class="code" href="structav_1_1Format.html">Format&lt;const AVInputFormat&gt;::setFormat</a>;</div>
+<div class="line"><a name="l00058"></a><span class="lineno">   58</span>&#160;    <span class="keyword">using</span> <a class="code" href="structav_1_1Format.html">Format&lt;AVInputFormat&gt;::Format</a>;</div>
+<div class="line"><a name="l00059"></a><span class="lineno">   59</span>&#160;    <span class="keyword">using</span> <a class="code" href="structav_1_1Format.html">Format&lt;AVInputFormat&gt;::setFormat</a>;</div>
 <div class="line"><a name="l00060"></a><span class="lineno">   60</span>&#160; </div>
 <div class="line"><a name="l00061"></a><span class="lineno">   61</span>&#160;    <a class="code" href="classav_1_1InputFormat.html#a5bdd0e1d62a9e8bab0c711bb26a0347c">InputFormat</a>() = <span class="keywordflow">default</span>;</div>
 <div class="line"><a name="l00062"></a><span class="lineno">   62</span>&#160; </div>
